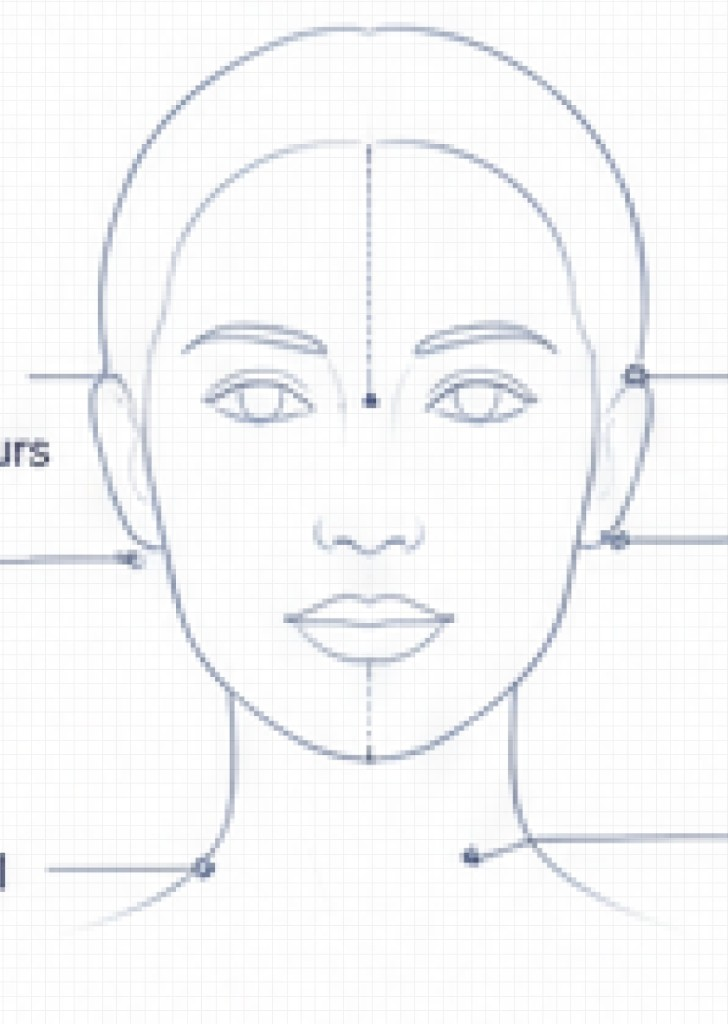
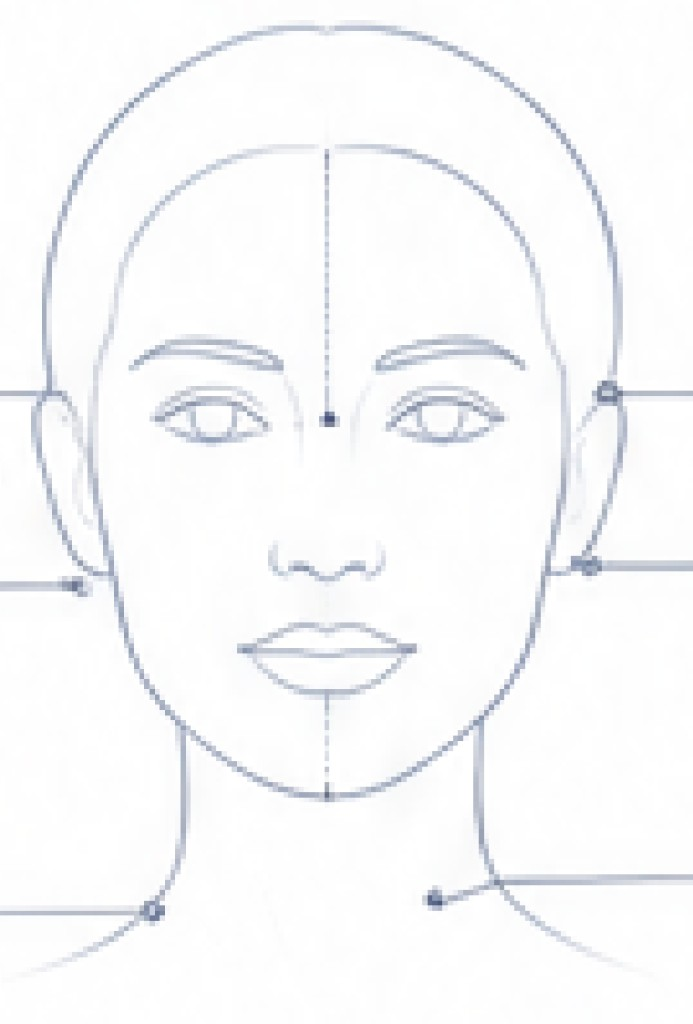
Replace scan explainer face illustration with line diagram.
Update the shared face-outline asset on web and mobile so the why-we-need-photos card uses the technical line drawing instead of the photo-style portrait.

Changed region(s): [[0.0, 0.0, 1.0, 0.9375], [0.2121, 0.125, 0.3939, 0.25], [0.4848, 0.0, 0.5152, 0.0312]]

diff --git a/mobile/components/capture/WhyWeNeedScanPhotosCard.tsx b/mobile/components/capture/WhyWeNeedScanPhotosCard.tsx
@@ -1,46 +1,22 @@
 import type { ReactNode } from "react";
-import { StyleSheet, Text, View } from "react-native";
-import Svg, { Circle, Ellipse, Line, Path } from "react-native-svg";
+import { Image, StyleSheet, Text, View } from "react-native";
 
-import { WHY_WE_NEED_SCAN_PHOTOS } from "@/lib/whyWeNeedScanPhotos";
+import {
+  FACE_OUTLINE_DIAGRAM_URL,
+  WHY_WE_NEED_SCAN_PHOTOS,
+} from "@/lib/whyWeNeedScanPhotos";
 import { SKINFIT_THEME } from "@/lib/skinfitTheme";
 
 const NAVY = SKINFIT_THEME.navy;
-const LINE = "#7A94B8";
-const DOT = NAVY;
 
 function FaceDiagram() {
   return (
-    <Svg width={168} height={200} viewBox="0 0 200 240" aria-hidden>
-      <Ellipse cx="100" cy="88" rx="46" ry="56" stroke={LINE} strokeWidth="1.6" fill="none" />
-      <Path
-        d="M 68 132 C 62 152 58 172 54 192 M 132 132 C 138 152 142 172 146 192"
-        stroke={LINE}
-        strokeWidth="1.6"
-        fill="none"
-        strokeLinecap="round"
-      />
-      <Path
-        d="M 54 192 C 72 204 86 208 100 208 C 114 208 128 204 146 192"
-        stroke={LINE}
-        strokeWidth="1.6"
-        fill="none"
-        strokeLinecap="round"
-      />
-      <Line x1="100" y1="36" x2="100" y2="208" stroke={LINE} strokeWidth="1.2" strokeDasharray="4 4" />
-      <Line x1="18" y1="58" x2="54" y2="78" stroke={LINE} strokeWidth="1" />
-      <Circle cx="54" cy="78" r="3" fill={DOT} />
-      <Line x1="18" y1="58" x2="50" y2="118" stroke={LINE} strokeWidth="1" />
-      <Circle cx="50" cy="118" r="3" fill={DOT} />
-      <Line x1="18" y1="178" x2="54" y2="192" stroke={LINE} strokeWidth="1" />
-      <Circle cx="54" cy="192" r="3" fill={DOT} />
-      <Line x1="182" y1="58" x2="146" y2="78" stroke={LINE} strokeWidth="1" />
-      <Circle cx="146" cy="78" r="3" fill={DOT} />
-      <Line x1="182" y1="58" x2="150" y2="118" stroke={LINE} strokeWidth="1" />
-      <Circle cx="150" cy="118" r="3" fill={DOT} />
-      <Line x1="182" y1="178" x2="146" y2="192" stroke={LINE} strokeWidth="1" />
-      <Circle cx="146" cy="192" r="3" fill={DOT} />
-    </Svg>
+    <Image
+      source={{ uri: FACE_OUTLINE_DIAGRAM_URL }}
+      style={styles.faceDiagram}
+      resizeMode="contain"
+      accessibilityIgnoresInvertColors
+    />
   );
 }
 
@@ -134,6 +110,10 @@ const styles = StyleSheet.create({
     height: 200,
     alignItems: "center",
     justifyContent: "center",
+  },
+  faceDiagram: {
+    width: 168,
+    height: 200,
   },
   labelTopLeft: {
     position: "absolute",

diff --git a/mobile/lib/whyWeNeedScanPhotos.ts b/mobile/lib/whyWeNeedScanPhotos.ts
@@ -1,3 +1,10 @@
+const WEB_BASE =
+  process.env.EXPO_PUBLIC_WEB_PORTAL_URL?.replace(/\/$/, "") ??
+  process.env.EXPO_PUBLIC_API_URL?.replace(/\/$/, "") ??
+  "";
+
+export const FACE_OUTLINE_DIAGRAM_URL = `${WEB_BASE}/images/face-outline-diagram.png`;
+
 export const WHY_WE_NEED_SCAN_PHOTOS = {
   title: "Why we need these photos?",
   subtitle:
